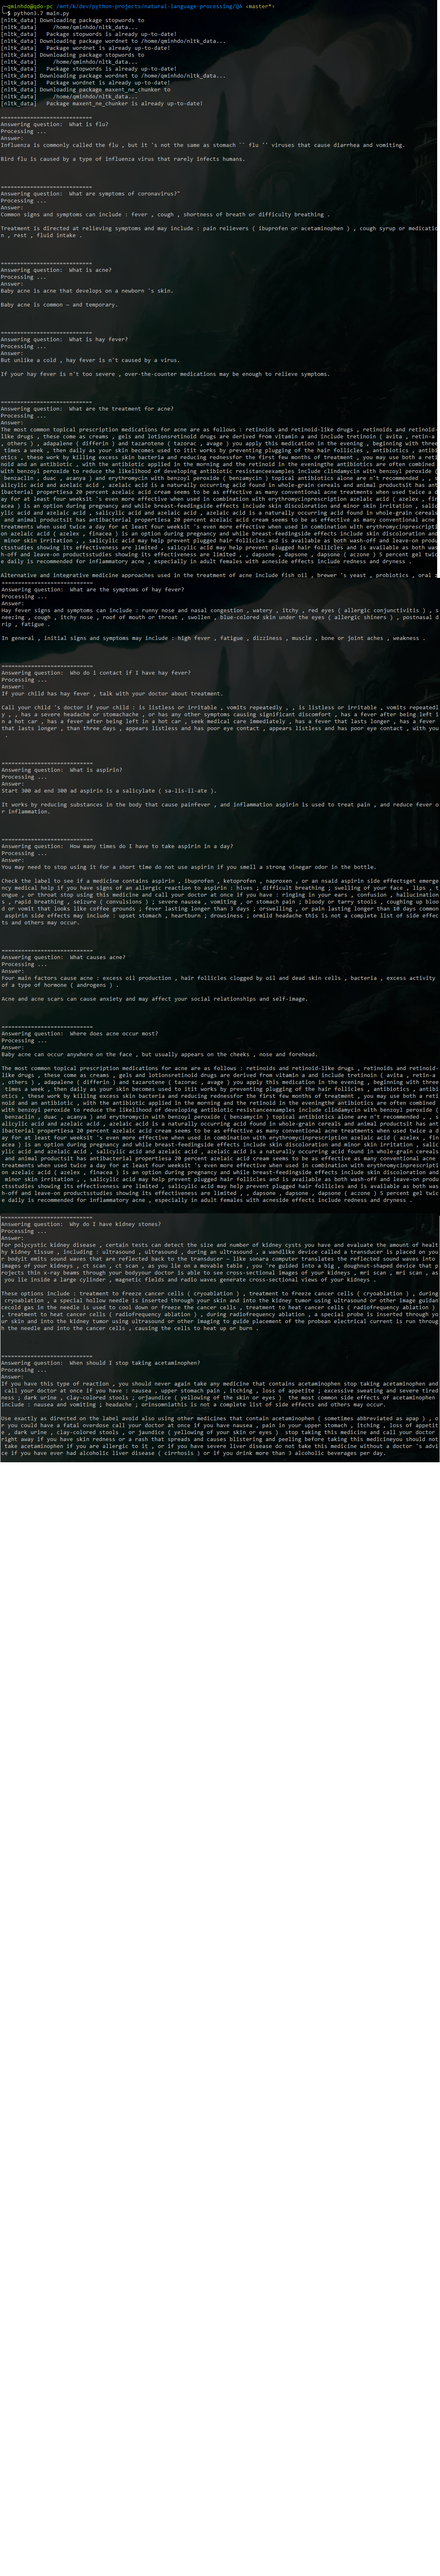
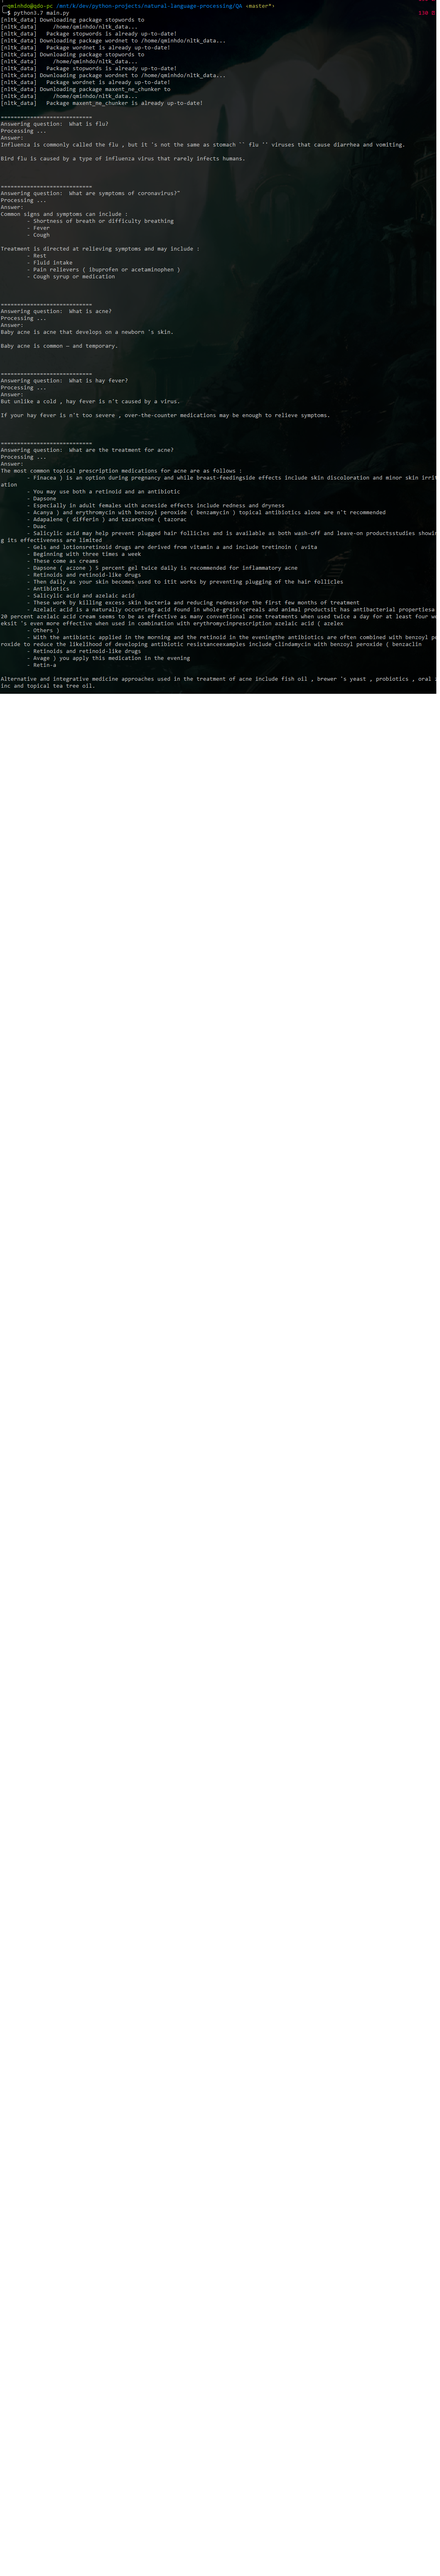
minor fixes

diff --git a/QA/query_formulator.py b/QA/query_formulator.py
@@ -47,6 +47,7 @@ class QueryFormulator:
 
         if (len(queries) == 0):
             focus = self.q_classifer.matched_groups['focus'].split()
+            focus = [f for f in focus if f not in set(stopwords.words('english'))]
             queries = focus
 
         return queries
@@ -98,20 +99,21 @@ if __name__ == "__main__":
     from question_classifier import QuestionClassifier
 
     questions = [
-        "what are the treatment for hay fever",
-        "treatment for hay fever",
-        "what are the symptoms of hay fever",
-        "what is hay fever",
-        "what cause depression",
-        "how many times do i take aspirin in a day",
-        "where does acne occur most",
-        "where do i go to take vaccine for hay fever",
-        "why do i have hay fever",
-        "who do i contact if i have hay fever",
-        "is aspirin lethal",
-        "Can ADHD cause depression",
-        "what do i do if i have fever",
-        "What happens during a diagnosis of adult ADHD?"
+        "Who do I contact if I have coronavirus?"
+        # "what are the treatment for hay fever",
+        # "treatment for hay fever",
+        # "what are the symptoms of hay fever",
+        # "what is hay fever",
+        # "what cause depression",
+        # "how many times do i take aspirin in a day",
+        # "where does acne occur most",
+        # "where do i go to take vaccine for hay fever",
+        # "why do i have hay fever",
+        # "who do i contact if i have hay fever",
+        # "is aspirin lethal",
+        # "Can ADHD cause depression",
+        # "what do i do if i have fever",
+        # "What happens during a diagnosis of adult ADHD?"
     ]
 
     for q_ in questions:

diff --git a/QA/answer_processor.py b/QA/answer_processor.py
@@ -62,9 +62,9 @@ class AnswerProcessor:
 
     def build_list(self, text, deliminator):
         sents_list = text.split(deliminator)
+        sents_list = [sent.strip().capitalize() for sent in sents_list if sent.strip() != ""]
         sents_list = set(sents_list)
         sents_list = list(sents_list)
-        sents_list = [sent.strip().capitalize() for sent in sents_list if sent.strip() != ""]
         text = "\n\t- ".join(sents_list)
         return text
 

diff --git a/QA/question_classifier.py b/QA/question_classifier.py
@@ -157,7 +157,7 @@ if __name__ == "__main__":
     Run this file to see details as described below
     """
     questions = [
-        "What causes kidney stones?"
+        "Who do I contact if I have coronavirus?"
     ]
 
     for q_ in questions:
